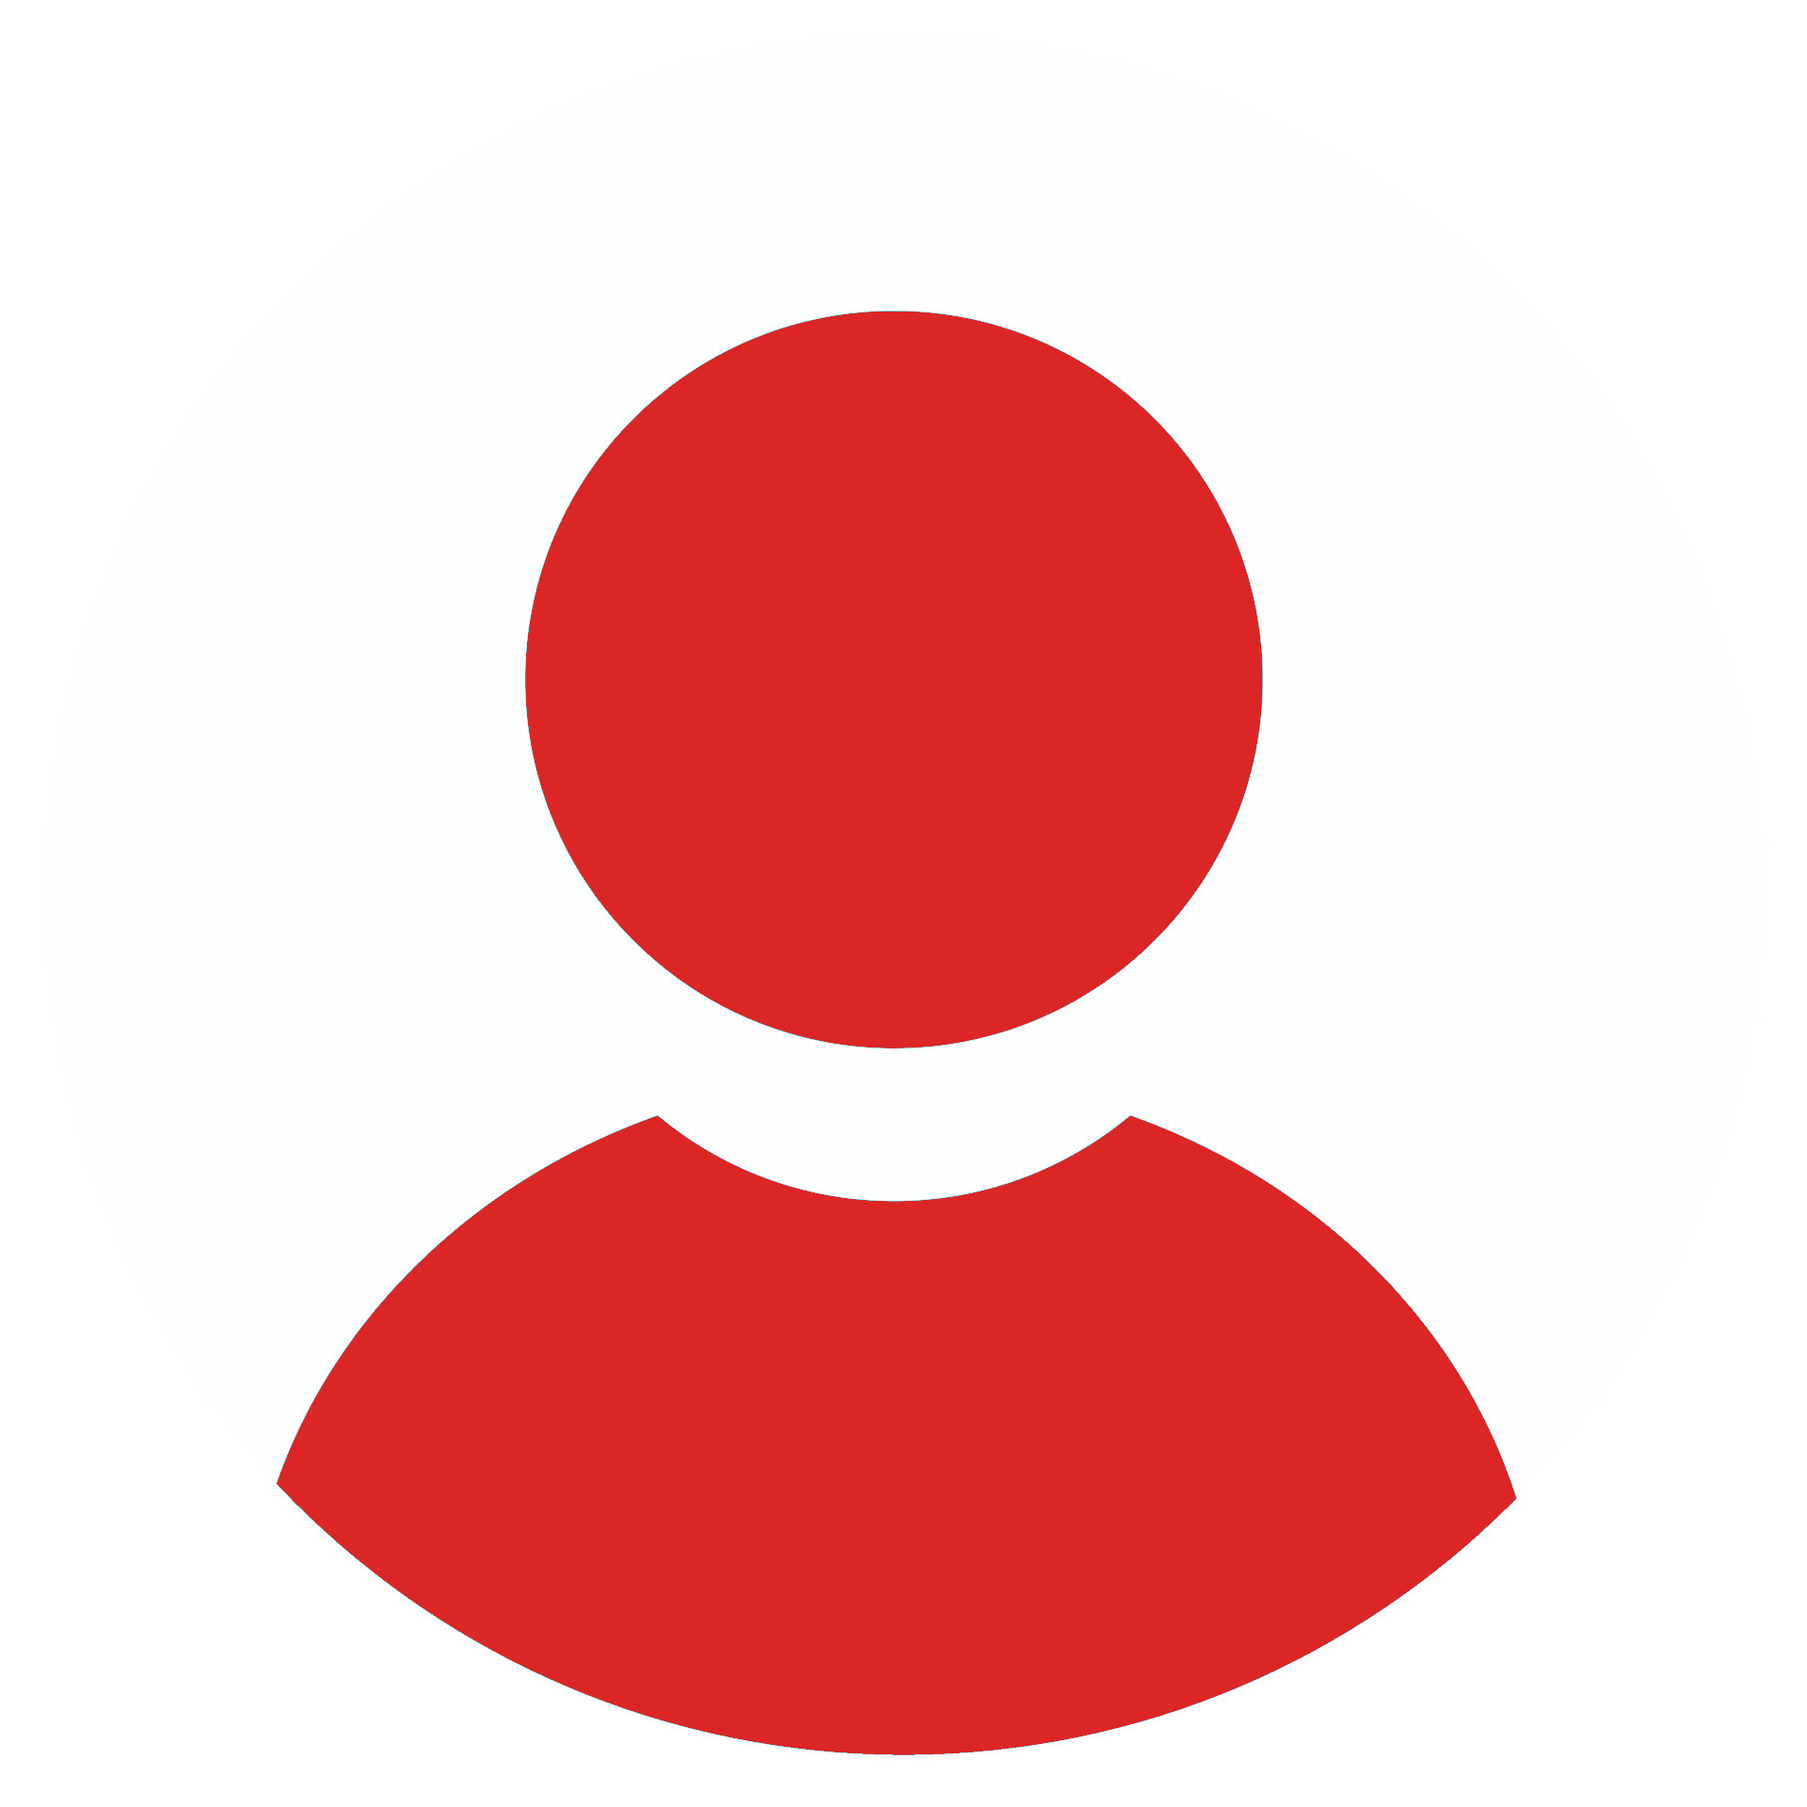
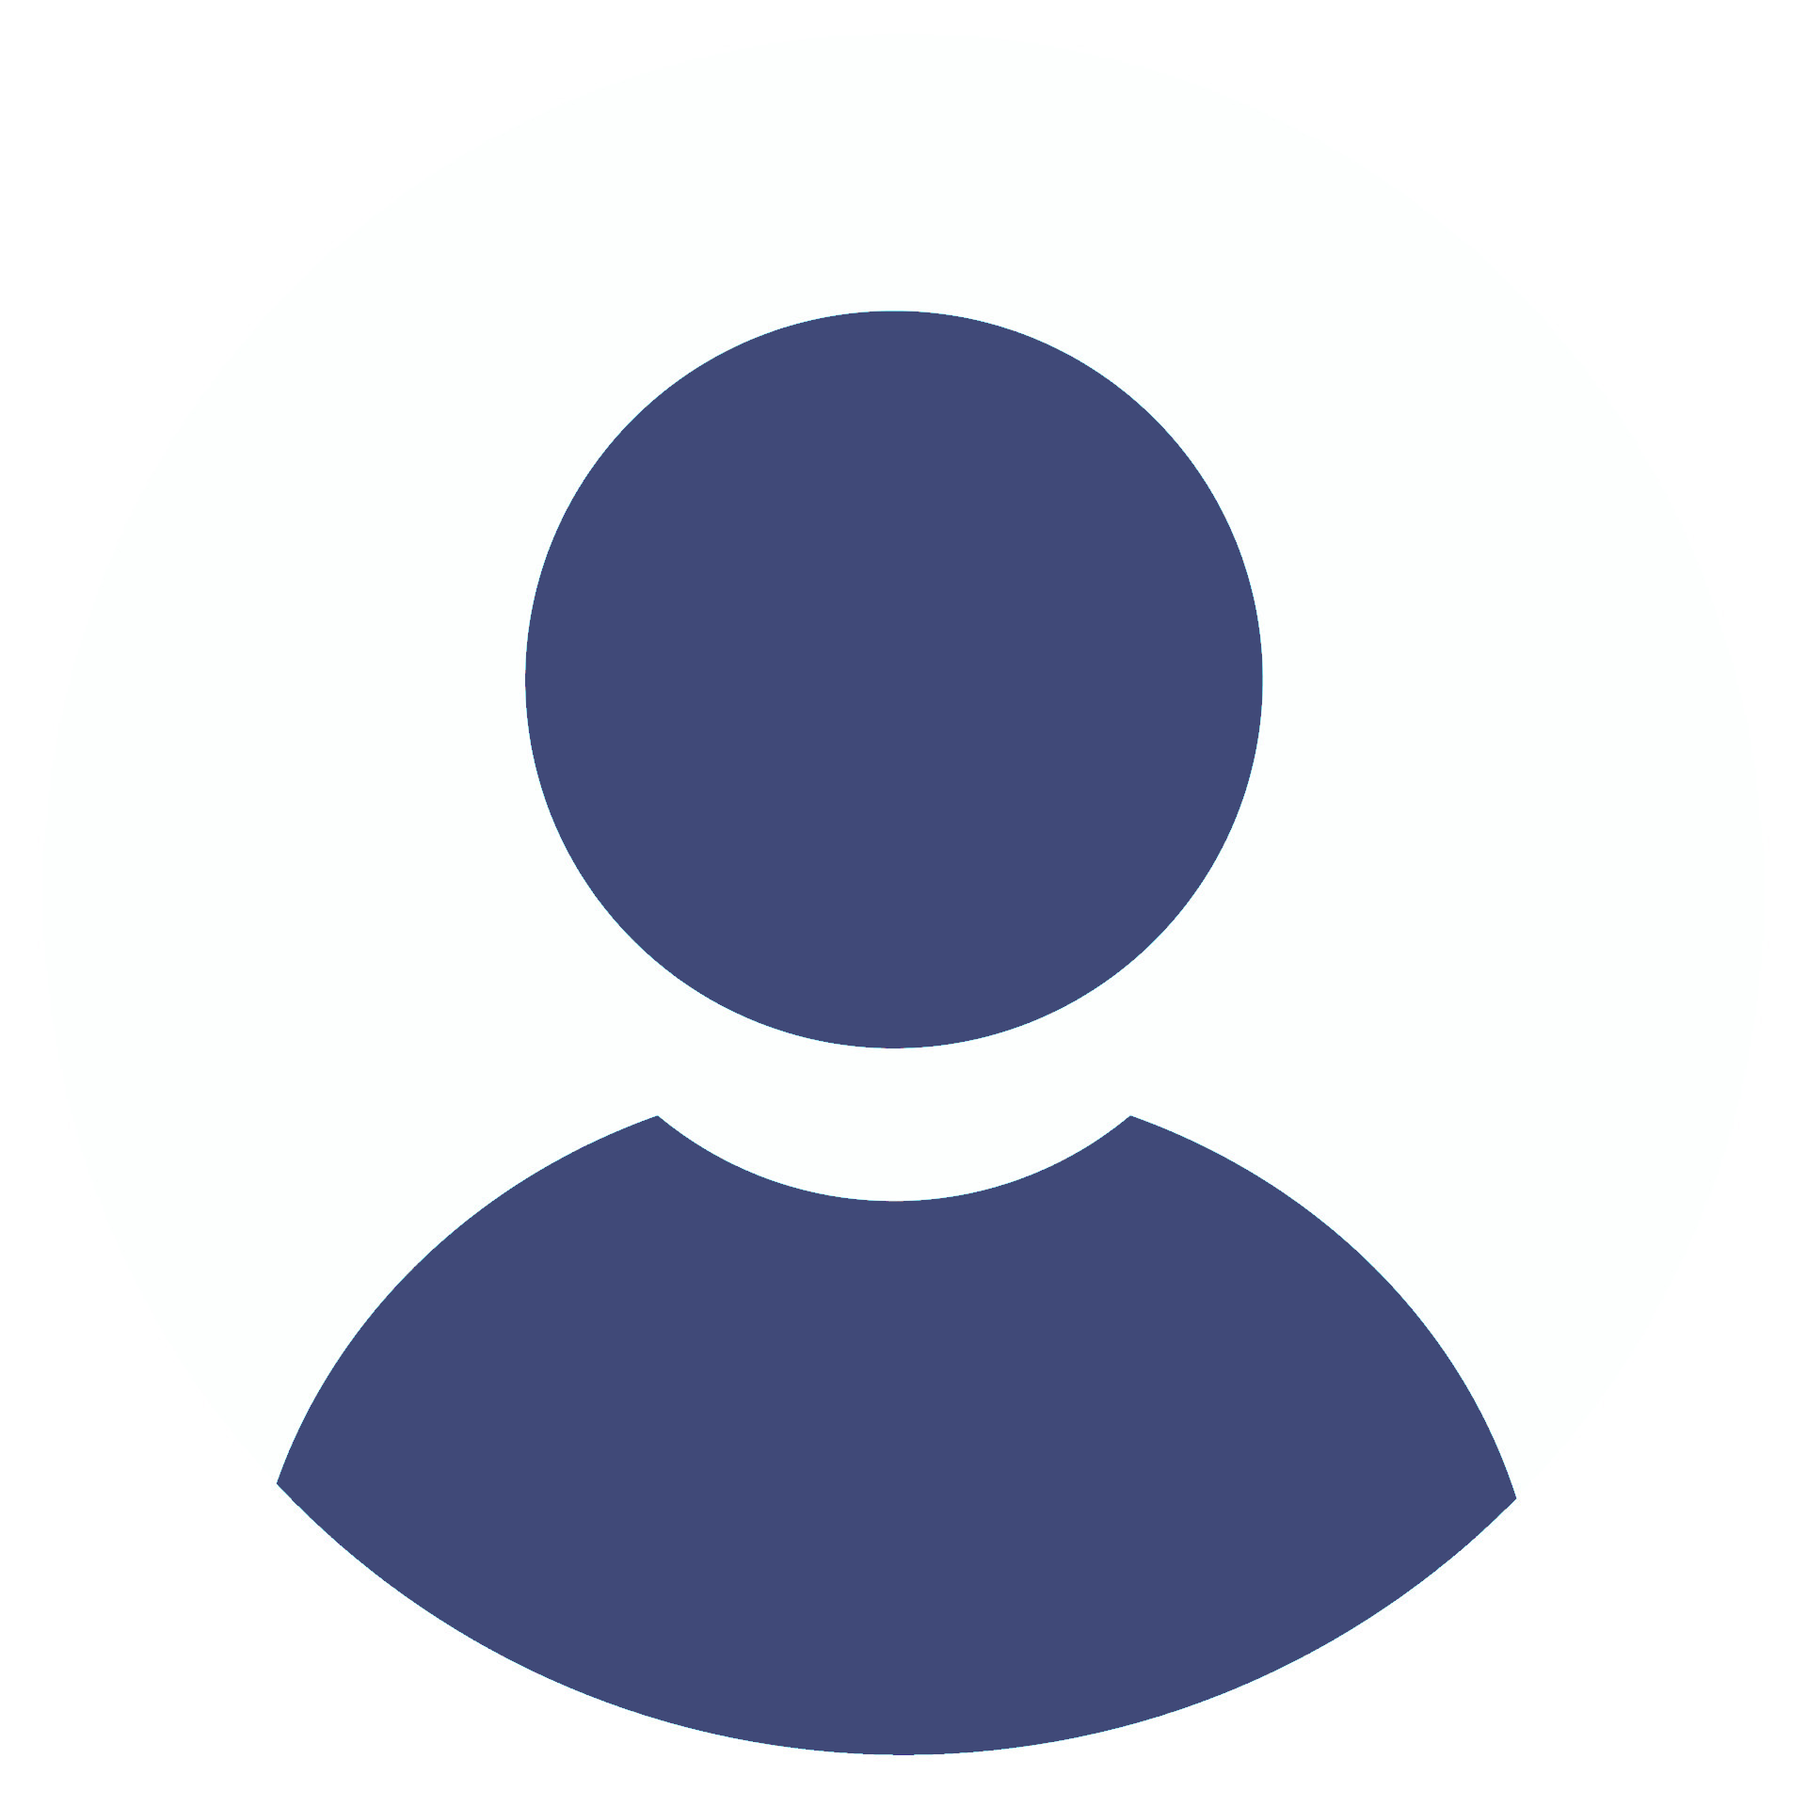
Add/Edit blog done

diff --git a/components/blogs/AddEditBlogForm.tsx b/components/blogs/AddEditBlogForm.tsx
@@ -3,13 +3,11 @@
 import { useState } from "react";
 import ArrowBackOutlinedIcon from '@mui/icons-material/ArrowBackOutlined';
 import Blog from "./Blog";
-import AttachMoneyOutlinedIcon from '@mui/icons-material/AttachMoneyOutlined';
 import UploadIcon from '@mui/icons-material/Upload';
 
-function AddEditBlogForm({ product = null, onBackClicked }: { product: any, onBackClicked: () => void }) {
-    const [productName, setProductName] = useState("");
-    const [productDescription, setProductDescription] = useState("");
-    const [productPrice, setProductPrice] = useState(0);
+function AddEditBlogForm({ blog = null, onBackClicked }: { blog: any, onBackClicked: () => void }) {
+    const [blogTitle, setBlogTitle] = useState("");
+    const [blogText, setBlogText] = useState("");
 
     return (
         <div className="w-full flex flex-col border shadow-lg rounded-lg bg-[#FEFEFE] p-8">
@@ -17,40 +15,27 @@ function AddEditBlogForm({ product = null, onBackClicked }: { product: any, onBa
                 <ArrowBackOutlinedIcon className="text-3xl cursor-pointer" onClick={() => {
                     onBackClicked();
                 }} />
-                <span className="text-xl font-['mtavruli'] font-semibold text-center w-full">პროდუქტის {product == null ? "დამატება" : "რედაქტირება"}</span>
+                <span className="text-xl font-['mtavruli'] font-semibold text-center w-full">ბლოგის {blog == null || blog.id == "" ? "დამატება" : "რედაქტირება"}</span>
             </div>
 
-            <div className='flex flex-col items-center justify-center mt-[30px]'>
+            <div className='flex flex-col items-center justify-center mt-[30px] w-[300px] self-center'>
                 <span className="text-md text-center w-full mb-[20px]">ნიმუში:</span>
-                <Blog blog={{ title: "", id: "" }} />
+                <Blog blog={{ id: "", title: blogTitle, text: blogText }} />
             </div>
             <form className='w-[70%] mx-auto mt-[30px] flex flex-col gap-[10px]'>
                 <div className="flex flex-col">
-                    <label htmlFor="name" className="text-md">დასახელება</label>
-                    <input type="text" id="name" value={productName} onChange={
+                    <label htmlFor="title" className="text-md">სათაური</label>
+                    <input type="text" id="title" value={blogTitle} onChange={
                         (e) => {
-                            setProductName(e.target.value);
+                            setBlogTitle(e.target.value);
                         }
-                    } className="border border-gray-300 rounded-lg p-2 mt-1" />
+                    } className="border border-gray-300 rounded-lg p-2 mt-1 focus:ring-[#404978] focus:border-[#404978] focus:outline-none focus:[#404978]" />
                 </div>
                 <div className="flex flex-col">
-                    <label htmlFor="description" className="text-md">აღწერა</label>
-                    <input type="text" id="description" value={productDescription} onChange={(e) => {
-                        setProductDescription(e.target.value);
-                    }} className="border border-gray-300 rounded-lg p-2 mt-1" />
-                </div>
-                <div className="relative">
-                    <label htmlFor="price" className="block text-md font-medium text-gray-700">ფასი</label>
-                    <input
-                        type="number"
-                        id="price"
-                        value={productPrice}
-                        onChange={(e) => {
-                            setProductPrice(Number(e.target.value));
-                        }}
-                        className="mt-2 block w-full px-3 py-2 bg-white border border-gray-300 rounded-md shadow-sm focus:ring-red focus:border-red focus:outline-none focus:red [appearance:textfield] [&::-webkit-outer-spin-button]:appearance-none [&::-webkit-inner-spin-button]:appearance-none"
-                    />
-                    <AttachMoneyOutlinedIcon className="absolute right-2 top-10 text-gray-500 cursor-pointer" />
+                    <label htmlFor="blogText" className="text-md">ტექსტი</label>
+                    <textarea id="blogText" rows={5} value={blogText} onChange={(e) => {
+                        setBlogText(e.target.value);
+                    }} className="border border-gray-300 rounded-lg p-2 mt-1 whitespace-pre-line break-words focus:ring-[#404978] focus:border-[#404978] focus:outline-none focus:[#404978]" />
                 </div>
                 <div className='w-[80%] flex items-center mt-4'>
                     <input
@@ -60,14 +45,14 @@ function AddEditBlogForm({ product = null, onBackClicked }: { product: any, onBa
                         accept="image/*"
                         className="hidden"
                     />
-                    <label htmlFor="image" className="flex items-center cursor-pointer bg-white border border-gray-300 rounded-md shadow-sm px-4 py-3">
-                        <UploadIcon className="text-red mr-2" />
-                        <span className="block text-md font-medium text-gray-700">ატვირთე პროდუქტის სურათი</span>
+                    <label htmlFor="image" className="flex items-center cursor-pointer bg-white border border-gray-300 rounded-md shadow-sm px-4 py-3 focus:ring-[#404978] focus:border-[#404978] focus:outline-none focus:[#404978]">
+                        <UploadIcon className="text-[#404978] mr-2" />
+                        <span className="block text-md font-medium text-gray-700">ატვირთე ბლოგის სურათი</span>
                     </label>
                 </div>
                 <button
                     type="submit"
-                    className="w-[40%] self-center mt-[25px] px-4 py-3 text-md font-medium text-white bg-red rounded-md focus:outline-none focus:ring-2 focus:ring-offset-2">
+                    className="w-[40%] self-center mt-[25px] px-4 py-3 text-md font-medium text-white bg-[#404978] rounded-md focus:outline-none focus:ring-2 focus:ring-offset-2">
                     შენახვა
                 </button>
             </form>

diff --git a/components/profile/UserInfo.tsx b/components/profile/UserInfo.tsx
@@ -8,11 +8,17 @@ import UserInformation from "./UserInformation";
 import MyProductsList from "./MyProductsList";
 import AddEditProductForm from "../products/AddEditProductForm";
 import { Product } from "../products/ProductList";
+import BlogsList from "../blogs/BlogsList";
+import { Blog } from "../blogs/Blogs";
+import AddEditBlogForm from "../blogs/AddEditBlogForm";
 
 function UserInfo() {
     const [selectedMenuItem, setSelectedMenuItem] = useState("profile");
     const [isNewProductPageOpen, setIsNewProductPageOpen] = useState(false);
+    const [isNewBlogPageOpen, setIsNewBlogPageOpen] = useState(false);
+
     const [product, setProduct] = useState<Product | null>(null);
+    const [blog, setBlog] = useState<Blog | null>(null);
 
     useEffect(() => {
         if (selectedMenuItem === "logout") {
@@ -32,6 +38,12 @@ function UserInfo() {
                 }}
             />
         ),
+        blogs: (
+            <BlogsList onAddEditBlogClicked={(blog: Blog) => {
+                setBlog(blog);
+                setIsNewBlogPageOpen(true);
+            }} />
+        ),
         logout: <></>,
     };
 
@@ -44,16 +56,20 @@ function UserInfo() {
                 />
             </div>
             <div style={{ flex: "3" }}>
-                {isNewProductPageOpen ? (
-                    <AddEditProductForm
-                        product={product}
-                        onBackClicked={() => {
-                            setIsNewProductPageOpen(false);
-                        }}
-                    />
-                ) : (
-                    menuComponents[selectedMenuItem]
-                )}
+                {!isNewProductPageOpen && !isNewBlogPageOpen && menuComponents[selectedMenuItem]}
+                {isNewProductPageOpen && (<AddEditProductForm
+                    product={product}
+                    onBackClicked={() => {
+                        setIsNewProductPageOpen(false);
+                    }}
+                />)}
+                {isNewBlogPageOpen && (<AddEditBlogForm
+                    blog={blog}
+                    onBackClicked={() => {
+                        setIsNewBlogPageOpen(false);
+                    }}
+                />)}
+
             </div>
         </div>
     );

diff --git a/components/blogs/BlogsList.tsx b/components/blogs/BlogsList.tsx
@@ -1,0 +1,28 @@
+import Blog from "./Blog"
+import AddOutlinedIcon from '@mui/icons-material/AddOutlined';
+
+function BlogsList({ onAddEditBlogClicked }: { onAddEditBlogClicked: any }) {
+    return (
+        <div className="w-full flex flex-col border shadow-lg rounded-lg bg-[#FEFEFE] p-8">
+            <h2 className="text-2xl font-['mtavruli'] font-semibold mb-[10px] text-center w-full">ბლოგების მენეჯმენტი</h2>
+            <div className="flex justify-end">
+                <button className="bg-[#404978] text-white text-sm rounded-lg py-2 px-4" onClick={() => {
+                    onAddEditBlogClicked({ id: "", title: "", text: "", imageUrl: "" });
+                }}>
+                    <AddOutlinedIcon className="text-sm" /> ახალი ბლოგის დამატება
+                </button>
+            </div>
+            <div className={"w-[100%] mx-auto h-full"}>
+                <div className={`grid grid-cols-3 mt-5 gap-[25px] gap-y-[30px] h-full`}>
+                    <Blog blog={{ title: "ბლოგის სათაური", id: "1" }} />
+                    <Blog blog={{ title: "ბლოგის სათაური", id: "1" }} />
+                    <Blog blog={{ title: "ბლოგის სათაური", id: "1" }} />
+                    <Blog blog={{ title: "ბლოგის სათაური", id: "1" }} />
+                    <Blog blog={{ title: "ბლოგის სათაური", id: "1" }} />
+                </div>
+            </div >
+        </div>
+    )
+}
+
+export default BlogsList

diff --git a/components/blogs/Blog.tsx b/components/blogs/Blog.tsx
@@ -7,13 +7,15 @@ interface BlogProps {
   blog: {
     title: string;
     id: string | number;
+    text?: string;
+    imageUrl?: string;
   };
 }
 
 function Blog({ blog }: BlogProps) {
   return (
     <Link href={`/blogs/${blog.id}`}>
-      <div className="flex flex-col gap-1 bg-[#FEFEFE] shadow-lg rounded-xl">
+      <div className="flex flex-col gap-1 bg-[#FEFEFE] shadow-lg rounded-xl max-w-[300px]">
         <div className="w-full cor">
           <Image
             src={test}
@@ -31,13 +33,11 @@ function Blog({ blog }: BlogProps) {
             </span>
           </div>
           <div className="w-full h-[40px] mb-5">
-            <h4 className="text-lg font-semibold mb-2">{blog.title}</h4>
+            <h4 className="text-lg font-semibold mb-2 line-clamp-2 overflow-hidden whitespace-pre-line break-words">{blog.title}</h4>
           </div>
           <div>
-            <p className="text-gray-700 text-sm line-clamp-2 overflow-hidden">
-              Lorem ipsum dolor sit amet consectetur adipisicing elit. Quo
-              voluptates, quas, nesciunt, quia quod laborum quibusdam
-              reprehenderit quae odio autem doloremque.
+            <p className="text-gray-700 text-sm line-clamp-2 overflow-hidden h-[40px] whitespace-pre-line break-words">
+              {blog.text}
             </p>
             <div className="flex items-center gap-2 mt-3">
               <span className="text-gray-500 text-xs">9 min read</span>

diff --git a/components/profile/UserProfileMenu.tsx b/components/profile/UserProfileMenu.tsx
@@ -3,6 +3,7 @@ import PasswordIcon from '@mui/icons-material/Password';
 import HistoryIcon from '@mui/icons-material/History';
 import LogoutIcon from '@mui/icons-material/Logout';
 import Inventory2OutlinedIcon from '@mui/icons-material/Inventory2Outlined';
+import FeedOutlinedIcon from '@mui/icons-material/FeedOutlined';
 
 function UserProfileMenu({ selectedItem, setSelectedMenuItem }: { selectedItem: string, setSelectedMenuItem: (id: string) => void }) {
     const menuItems = [
@@ -25,6 +26,11 @@ function UserProfileMenu({ selectedItem, setSelectedMenuItem }: { selectedItem: 
             id: "products",
             icon: <Inventory2OutlinedIcon />,
             title: "ჩემი პროდუქტები"
+        },
+        {
+            id: "blogs",
+            icon: <FeedOutlinedIcon />,
+            title: "ბლოგები"
         },
         {
             id: "logout",

diff --git a/components/profile/UserInformation.tsx b/components/profile/UserInformation.tsx
@@ -31,7 +31,7 @@ function UserInformation() {
                         onChange={handleImageChange}
                     />
                     <label htmlFor="image" className="flex items-center cursor-pointer bg-white border border-gray-300 rounded-md shadow-sm px-4 py-3">
-                        <UploadIcon className="text-red mr-2" />
+                        <UploadIcon className="text-[#404978] mr-2" />
                         <span className="block text-md font-medium text-gray-700">შეცვალე სურათი</span>
                     </label>
                 </div>

diff --git a/components/products/ProductList.tsx b/components/products/ProductList.tsx
@@ -9,6 +9,7 @@ export interface Product {
   description: string;
   price: number;
 }
+
 async function ProductList({ icon, title, className, colCount = 5, addNewBtn = false, onAddEditProductClicked }: { icon?: React.ReactNode, title?: string, className?: string, colCount?: number, addNewBtn: boolean, onAddEditProductClicked: (product: Product) => void }) {
   const products = await getProducts();
 

diff --git a/components/blogs/Blogs.tsx b/components/blogs/Blogs.tsx
@@ -2,10 +2,11 @@ import Blog from "../blogs/Blog";
 import axios from "axios";
 
 
-interface Blog {
+export interface Blog {
   id: string | number;
   title: string;
-  tags: string[];
+  text: string;
+  imageUrl: string,
 }
 
 const getData = async () => {

diff --git a/components/products/AddNewProductCard.tsx b/components/products/AddNewProductCard.tsx
@@ -9,4 +9,4 @@ function AddNewProductCard({ onClick }: { onClick: () => void }) {
     )
 }
 
-export default AddNewProductCard;
+export default AddNewProductCard
